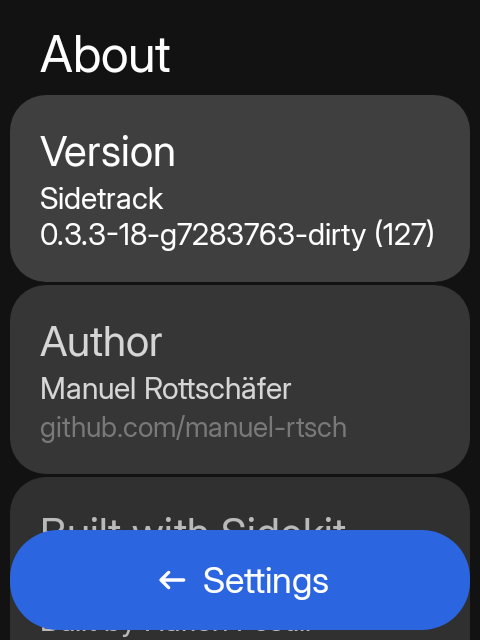
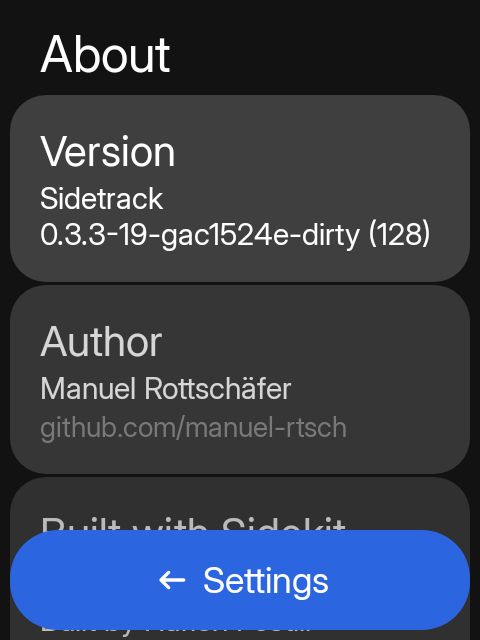
fix(rows): keep the action bar open when the list scrolls it into view
Opening a row's actions on a row near the bottom focuses that row, and the
lazy list scrolls it above the action bar. `dismissOnScroll` watched
`isScrollInProgress`, so that programmatic scroll counted as a dismissal and
closed the bar in the same frame it opened. On History, whose list is long
enough to put rows under the bar, the menu vanished as soon as it appeared.

Dismiss on a real drag instead: `interactionSource.collectIsDraggedAsState`
is only true while a finger is moving the list, so the bar's own scroll no
longer closes it, while dragging the list still does.

Changed region(s): [[0.25, 0.3438, 0.9062, 0.4062]]

diff --git a/app/src/main/java/io/github/manuelrtsch/sidetrack/RowActionBar.kt b/app/src/main/java/io/github/manuelrtsch/sidetrack/RowActionBar.kt
@@ -1,5 +1,6 @@
 package io.github.manuelrtsch.sidetrack
 
+import androidx.compose.foundation.interaction.collectIsDraggedAsState
 import androidx.compose.foundation.lazy.LazyListState
 import androidx.compose.runtime.Composable
 import androidx.compose.runtime.DisposableEffect
@@ -204,11 +205,18 @@ fun CloseRowActionsWhenDisposed(selected: Boolean, state: RowActionBarState) {
     }
 }
 
-/** Closes the contextual bar as soon as the list starts moving under it. */
+/**
+ * Closes the contextual bar when the user drags the list under it.
+ *
+ * Deliberately keyed on a drag, not on [LazyListState.isScrollInProgress]: opening the bar on a
+ * row near the bottom focuses that row, and the list scrolls it into view. That scroll is the
+ * bar's own doing, so treating it as a dismissal closed the bar in the same frame it opened.
+ */
 @Composable
 fun RowActionBarState.dismissOnScroll(listState: LazyListState) {
-    LaunchedEffect(listState.isScrollInProgress) {
-        if (listState.isScrollInProgress) close(restoreFocus = false)
+    val dragged by listState.interactionSource.collectIsDraggedAsState()
+    LaunchedEffect(dragged) {
+        if (dragged) close(restoreFocus = false)
     }
 }
 
